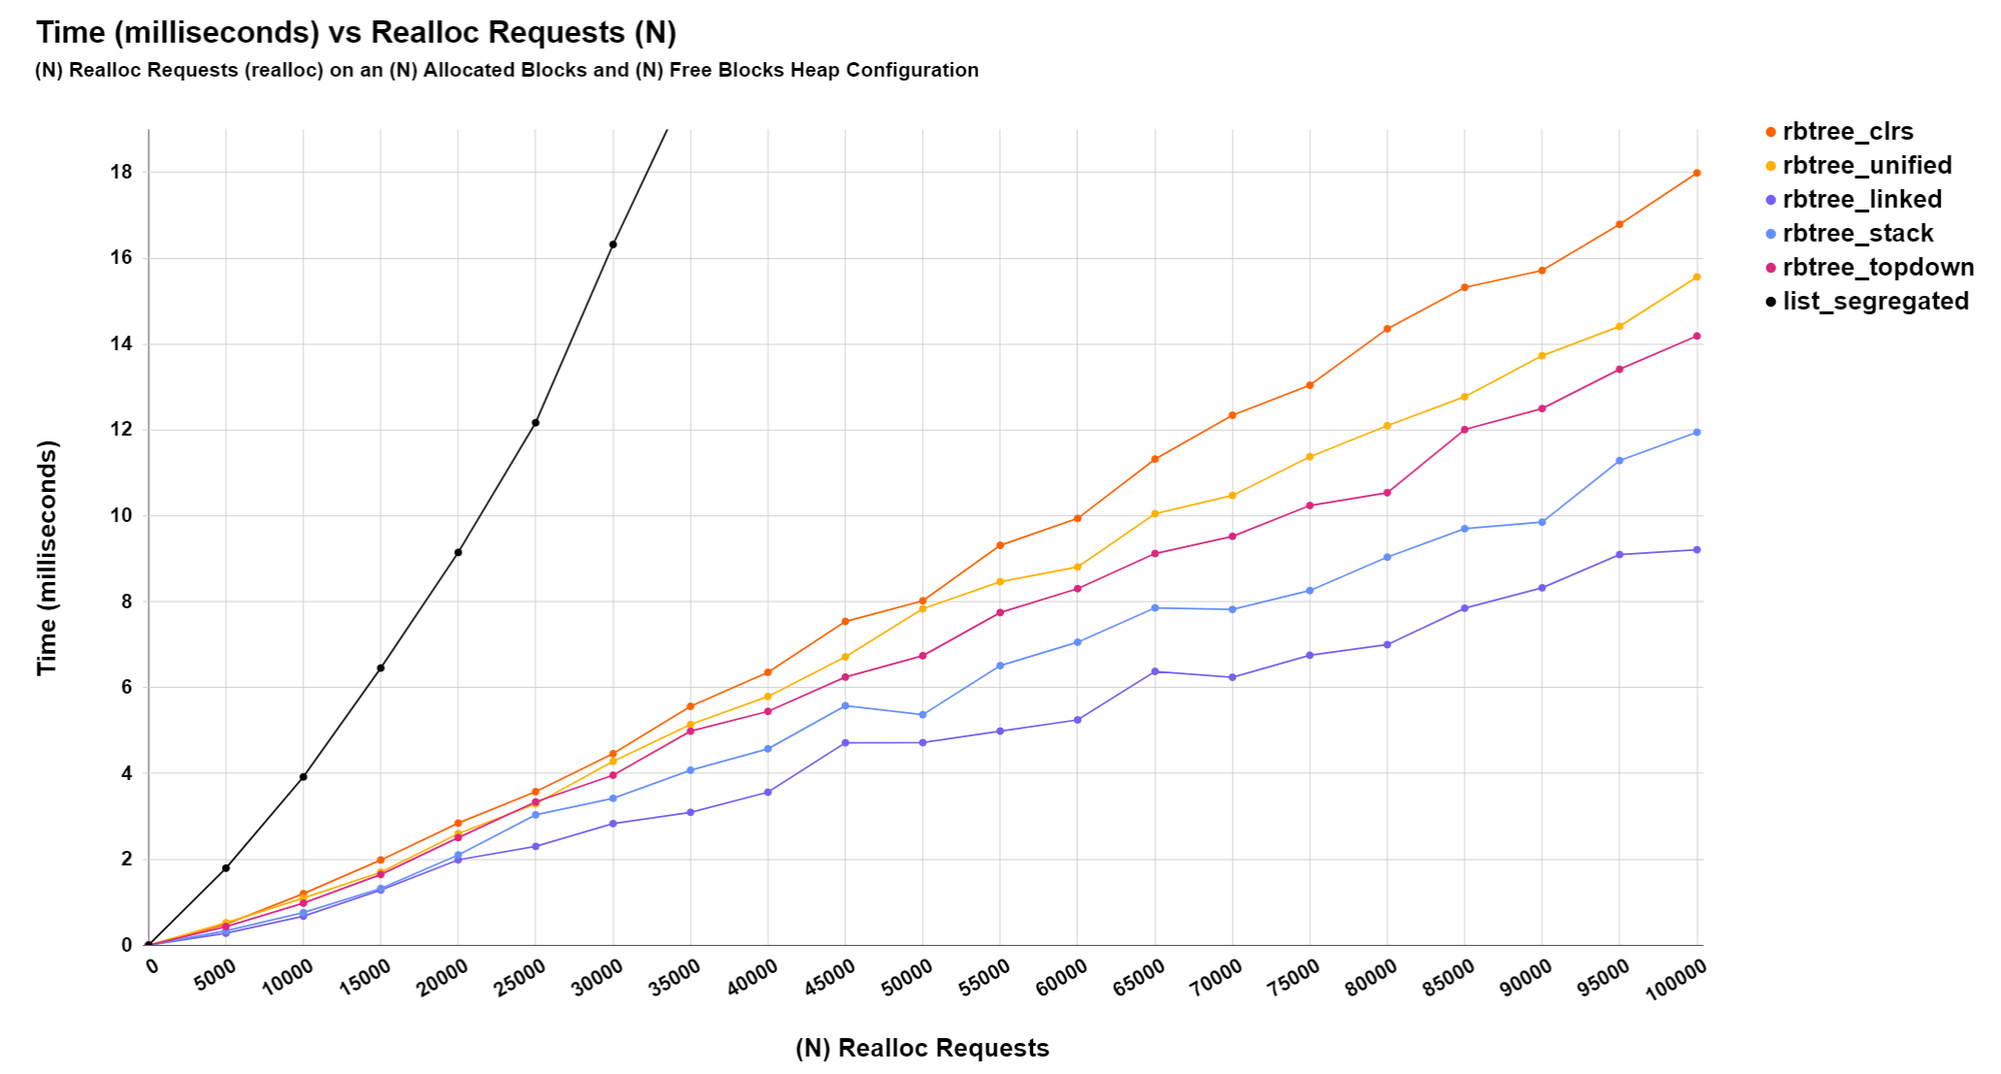
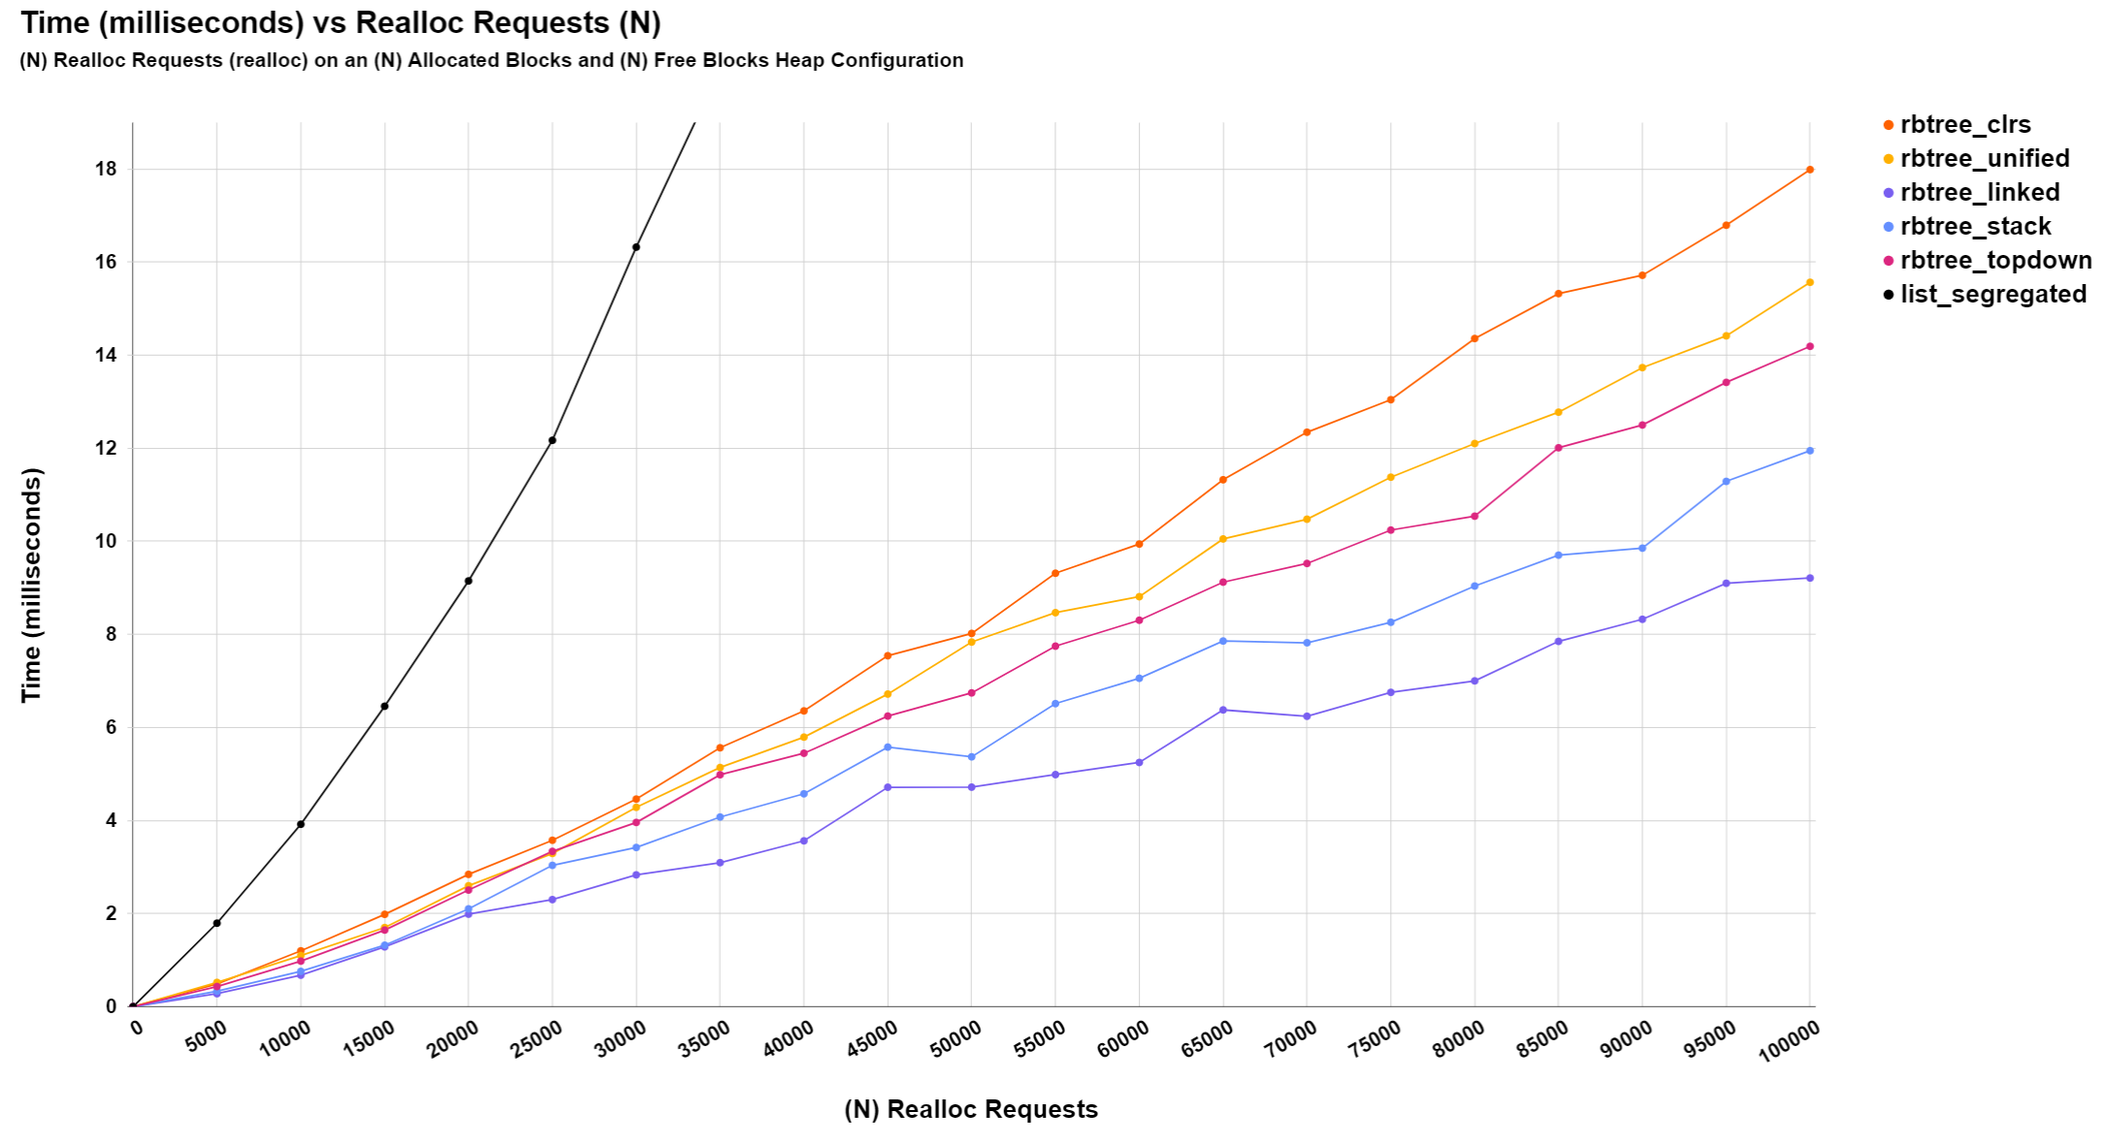
commit

diff --git a/docs/rbtree_analysis.md b/docs/rbtree_analysis.md
@@ -16,9 +16,9 @@
 5. Stack Based
    - Documentation **([`rbtree_stack.md`](/docs/rbtree_stack.md))**
    - Implementation **([`rbtree_stack.c`](/src/rbtree_stack.c))**
-6. Topdown Fixups
-   - Documentation **([`rbtree_topdown.md`](/docs/rbtree_topdown.md))**
-   - Implementation **([`rbtree_topdown.c`](/src/rbtree_topdown.c))**
+6. top-down Fixups
+   - Documentation **([`rbtree_top-down.md`](/docs/rbtree_top-down.md))**
+   - Implementation **([`rbtree_top-down.c`](/src/rbtree_top-down.c))**
 7. Runtime Analysis
    - Documentation **([`rbtree_analysis.md`](/docs/rbtree_analysis.md))**
 8. The Programs
@@ -69,7 +69,19 @@ What's even more impressive is what happens when we step up the number of free n
 
 *Pictured Above: Two graphs. The top represents the number of free nodes over a script's lifetime and the bottom represents the time to complete a single request over the script's lifetime.*
 
-So, for further analysis of our tree implementations, we need to reduce our time scale by a factor of 1,000 and compare implementations in milliseconds. This will reveal interesting differences between the five Red Black Tree allocators. We will no longer include the list allocator in further comparisons as that is not productive.
+### A Better List
+
+So far, it may seem that a list based allocator cannot compete with the Red-Black tree data structure. However, that is not the case. The simple list based allocator mentioned above is not the best representative for the list data structure. Many allocators, including the GNU Allocator to some extent, use something called a segregated fits allocator. This involves keeping an array of size ranges in which to store doubly linked lists of that size. We can get clever and mix storing singly sized lists with larger lists that are perfect base 2 power of 2 sizes. While a seemingly simple idea, it can yeild a major speed boost over the simple list. We can even obtain great utilization in some cases.
+
+For example, here is the time per request for the segregated list allocator over the same range of requests we discussed earlier.
+
+![seg-time-per-request](/images/seg-time-per-request.png)
+
+*Pictured Above: Two graphs. The top represents the number of free nodes over a script's lifetime and the bottom represents the time to complete a single request over the script's lifetime.*
+
+You may notice that this allocator resembles the O(lgN) runtime we like to see in our tree based allocators. However, it is slightly less resistant to growth in our number of free nodes. You will see this lack of resistance to the growth of the free lists as we continue our analysis. We will keep this allocator as a point of comparison in our different sections because it is competitive up to a certain point.
+
+For further analysis of our tree implementations, we will reduce our time scale by a factor of 1,000 and compare implementations in milliseconds. This will reveal interesting differences between the five Red Black Tree allocators and the Segregated Fits allocator that will serve as our baseline for performance. We will no longer include the simple list allocator in further comparisons as that is not productive.
 
 ## Testing Methodology
 
@@ -78,7 +90,7 @@ The following test methods and analysis are not targeted towards any specific ap
 - Is there any cost or benefit to uniting the left and right cases of Red Black trees into one case with the use of an array of pointers?
 - Does the approach of storing duplicate node sizes in a linked list benefit performance by trimming the tree?
 - When we abandon the parent field of the tree node in exchange for the linked list field, do we sacrifice performance?
-- Does a topdown approach to fixing a Red Black Tree reduce the number of O(lgN) operations enough to make a difference in performance?
+- Does a top-down approach to fixing a Red Black Tree reduce the number of O(lgN) operations enough to make a difference in performance?
 
 In order to answer these questions I wrote a `time_harness.c` program based upon the `test_harness.c` program the Stanford course staff wrote for us. The original `test_harness.c` program was focussed on correctness. Along with our own debugging and printing functions, the goal of the test harness was to be as thorough as possible in finding bugs quickly and ensuring our allocators functioned properly. This meant that the programs produced for each allocator were painfully slow. There were numerous O(N) operations built into the provided program and I added many more O(N) checks into my own implementations. For a red-black tree these checks only grow as the necessity to ensure the rules of a Red Black Tree are followed becomes critical.
 
@@ -122,9 +134,10 @@ Here are the key details from the above graph.
 - The time complexity of inserting and deleting N elements into our tree is O(NlgN).
   - We may also see some extra time cost from breaking off extra space from a block that is too large and reinserting it into the tree. However, this is hard to predictably measure and does not seem to have an effect on the Big-O time complexity.
 - We see an improvement exceeding 50% in runtime speed when we manage duplicates with a doubly linked list to trim the tree.
-- The topdown approach to managing a Red-Black tree is not the fastest in terms of inserting and deleting from the tree.
+- The top-down approach to managing a Red-Black tree is not the fastest in terms of inserting and deleting from the tree.
+- These allocators clearly outperform the standard segregated fits's O($N^2$) time complexity. 
 
-Recall from the allocator summaries that we are required to manage duplicates in a Red-Black tree if we decide to abandon the parent field of the traditional node. The two approaches that trade the parent field for the pointer to a linked list of duplicates perform admirably: `rbtree_topdown` and `rbtree_stack`. The topdown approach is still an improvement over a traditional Red-Black tree, but surprisingly, the stack implementation that relies on the logical structure of the CLRS Red-Black tree is the winner in this competition. While I thought the `rbtree_linked` approach that uses a field for the `*parent`, `links[LEFT]`, `links[RIGHT]`, and `*list_start` would be the worst in terms of space efficiency, I thought we would gain some speed overall. We still need to measure coalescing performance, but this makes the `rbtree_linked` implmentation seem the most pointless at this point if the same speed can be acheived with more space efficiency.
+Recall from the allocator summaries that we are required to manage duplicates in a Red-Black tree if we decide to abandon the parent field of the traditional node. The two approaches that trade the parent field for the pointer to a linked list of duplicates perform admirably: `rbtree_top-down` and `rbtree_stack`. The top-down approach is still an improvement over a traditional Red-Black tree, but surprisingly, the stack implementation that relies on the logical structure of the CLRS Red-Black tree is the winner in this competition. While I thought the `rbtree_linked` approach that uses a field for the `*parent`, `links[LEFT]`, `links[RIGHT]`, and `*list_start` would be the worst in terms of space efficiency, I thought we would gain some speed overall. We still need to measure coalescing performance, but this makes the `rbtree_linked` implmentation seem the most pointless at this point if the same speed can be acheived with more space efficiency.
 
 Finally, the performance gap scales as a percentage, meaning we will remain over 50% faster when we manage duplicates to trim the tree even when we are dealing with millions of elements and our times have increased greatly. Managing duplicates in a linked list with only the use of one pointer is a worthwile optimization. Revisit any summary of the last three allocators if you want more details on how this optimization works.
 
@@ -140,7 +153,7 @@ Coalescing left and right in all implementations occurs whenever we `free()` or 
 
 In order to test the speed of coalescing across implementations we can set up a similar heap to the one we used for our insertion and deletion test. If we want to test the speed of N coalescing operations, we will create 2N allocations. Then, we will free N blocks of memory to insert into the tree such that every other allocation is freed to prevent premature coalescing. Finally, we will call `realloc()` on every allocation that we have remaining, N blocks. My implementation of `realloc()` and `free()` coalesce left and right every time, whether the reallocation request is for more or less space. I have set up a random distribution of calls for more or less space, with a slight skew towards asking for more space. This means we are garunteed to left and right coalesce for every call to `realloc()` giving us the maximum possible number of encounters with nodes that are in the tree. We will find a number of different coalescing scenarios this way as mentioned in the allocator summaries.
 
-If we are using a normal Red Black Tree with a parent field, we treat all coalescing the same. We free our node from the tree and then use the parent field to perform the necessary fixups. At worst this will cost O(lgN) operations to fix the colors of the tree. For the `rbtree_linked` implementation, where we kept the parent field and added the linked list as well, any scenario in which we coalesce a duplicate node will result in an O(1) operation. No rotations, fixups, or searches are necessary. This is great! For the `rbtree_stack` and `rbtree_topdown` implementations, we were able to acheive the same time complexity by thinking creatively about how we view nodes and how they store the parent field if they are a duplicate. Both of those allocators represent advanced optimizations in speed and space efficiency. The only disadvantage to the `rbtree_stack` allocator, when compared to the `rbtree_linked` allocator, is that if we coalesce a unique node we must launch into a tree search to build its path in a stack in preparation for fixups. The `rbtree_linked` implementation is able to immediately start fixups because it still has the parent field, even in a unique node.
+If we are using a normal Red Black Tree with a parent field, we treat all coalescing the same. We free our node from the tree and then use the parent field to perform the necessary fixups. At worst this will cost O(lgN) operations to fix the colors of the tree. For the `rbtree_linked` implementation, where we kept the parent field and added the linked list as well, any scenario in which we coalesce a duplicate node will result in an O(1) operation. No rotations, fixups, or searches are necessary. This is great! For the `rbtree_stack` and `rbtree_top-down` implementations, we were able to acheive the same time complexity by thinking creatively about how we view nodes and how they store the parent field if they are a duplicate. Both of those allocators represent advanced optimizations in speed and space efficiency. The only disadvantage to the `rbtree_stack` allocator, when compared to the `rbtree_linked` allocator, is that if we coalesce a unique node we must launch into a tree search to build its path in a stack in preparation for fixups. The `rbtree_linked` implementation is able to immediately start fixups because it still has the parent field, even in a unique node.
 
 ![chart-realloc-free](/images/chart-realloc-free.png)
 
@@ -148,9 +161,10 @@ Here are the key details from the above graph.
 
 - The runtime of N reallocations is O(NlgN).
 - The `rbtree_linked` implementation with nodes that have a `*parent`, `links[LEFT-RIGHT]`, and `*list_start` field is the clear winner. The number of O(1) encounters with duplicates reduces the overall runtime of the allocator significantly.
-- The stack approach is again a solid balance of space-efficiency and speed. However, it seems that accessing an array to get the nodes you need is a factor slowing this implementation down compared to `rbtree_linked`. The search to build the stack when we coalesce a unique node also shows up as a time cost without the `parent` field. There is also added complexity in how `rbtree_stack` and `rbtree_topdown` store the parent field, increasing instruction counts.
-- The topdown approach must fix the tree while it goes down to remove a node, thus costing time due to extra work.
+- The stack approach is again a solid balance of space-efficiency and speed. However, it seems that accessing an array to get the nodes you need is a factor slowing this implementation down compared to `rbtree_linked`. The search to build the stack when we coalesce a unique node also shows up as a time cost without the `parent` field. There is also added complexity in how `rbtree_stack` and `rbtree_top-down` store the parent field, increasing instruction counts.
+- The top-down approach must fix the tree while it goes down to remove a node, thus costing time due to extra work.
 - The `rbtree_unified` implementation only differs from the `rbtree_clrs` implementation in that unifies the left and right cases of a Red Black tree using an array in one of the node fields. Yet, it is faster in this application.
+- The `list_segregated` allocator is more competitive in this category, but is soon outclassed by the speed of the Red-Black tree allocators.
 
 These results make the most wasteful implementation in terms of space, `rbtree_linked`, more of a proof of concept. If the similar results can be acheived with more space efficiency, the implementation loses value.
 
@@ -180,7 +194,7 @@ The Linux `tree` command will print out all directory contents in a tree structu
 
 ![chart-tracetree](/images/chart-tracetree.png)
 
-It is again unproductive to discuss a speed comparison between the Red Black Tree allocators on this scale, so we will drop the list allocator for further comparison.
+It is again unproductive to discuss a speed comparison between the Red Black Tree allocators on this scale, so we will drop the list allocator for further comparison. We will also note that the Segregated Fits allocator was much more competitive across these categories in terms of speed. However, it is not quite fast enough to stay for further analysis amongst the different Red-Black tree allocators.
 
 ![chart-rbtracetree](/images/chart-rbtracetree.png)
 
@@ -203,28 +217,29 @@ Here are the key observations from the above graph.
 
 ### Utilization
 
-While it was not productive to compare speeds of the list allocator to the tree allocator, the list allocator can show value in its high utilization due to low overhead to maintain the list. Let's compare utilization across the insertion/deletion, coalescing, and tracing applications.
+While it was not productive to compare speeds of the list allocators to the tree allocators, the list allocators can show value in their high utilization due to low overhead to maintain the list. Let's compare utilization across the insertion/deletion, coalescing, and tracing applications.
 
 ![chart-utilization](/images/chart-utilization.png)
 
 Here are the key details from the above graph.
 
 - While slow, the doubly linked list allocator has excellent utilization.
-- The implementations of the `rbtree_clrs`, `rbtree_unified`, `rbtree_stack`, and `rbtree_topdown` are different in terms of the details of their code and algorithms. However, they have the exact same space used in their nodes, therefore the utilization is identical.
+- The implementations of the `rbtree_clrs`, `rbtree_unified`, `rbtree_stack`, and `rbtree_top-down` are different in terms of the details of their code and algorithms. However, they have the exact same space used in their nodes, therefore the utilization is identical.
 - Perhaps this view makes the cost of the speed gained by the `rbtree_linked` approach more apparent.
+- The more advanced Segregated Fits allocator can achieve an excellent balance of speed and utilization. However, its utilization is highly dependent on the workload (notice the severe dip to 76% illustrated by the blue line). This is due to the high overhead of the lookup table. If the number of free nodes remains low, this lookup table for the segregated lists will eat into overall utilization. But once heap usage grows the low overhead of the actual free nodes compared to the Red-Black tree nodes begins to shine.
 
 ## Conclusions
 
 Let's revisit the questions I was most interested in when starting the runtime analysis of these allocators.
 
 - Is there any cost or benefit to uniting the left and right cases of Red Black trees into one case with the use of an array of pointers?
-  - **Our initial runtime informations suggests that accessing pointers to other nodes in the tree from an array is slightly slower. We can explore the assembly of the traditional node versus the array based node to see for sure where the instruction counts expand. This is a possible extension to pursue in this project.**
+  - **Our initial runtime information suggests that accessing pointers to other nodes in the tree from an array is slightly slower. We can explore the assembly of the traditional node versus the array based node to see for sure where the instruction counts expand. This is a possible extension to pursue in this project.**
 - Does the approach of storing duplicate node sizes in a linked list benefit performance by trimming the tree?
   - **Absolutely. In fact, if you wish to make no compromises in terms of performance then simply add the linked list pointer to the traditional node. However, if you want a more space efficient approach use an explicit stack to track lineage of the tree, and store duplicates in a linked list pointer.**
 - When we abandon the parent field of the tree node in exchange for the linked list field, do we sacrifice performance?
-  - **If we use the CLRS algorithm to fix the tree with a bottom up approach, we do not lose much speed. However when we fix the tree with a topdown approach, we will lose some time even though we have eliminated the need for a parent field. This seems to be because we do extra work whenever we fix the tree on the way down, and our bottom up approach may not perform the worst case number of fixups on every execution.**
-- Does a topdown approach to fixing a Red Black Tree reduce the number of O(lgN) operations enough to make a difference in performance?
-  - **Yes. The difference is that the topdown algorithm is slower than the bottom up algorithm. Perhaps the added logic of handling duplicates and needing to rewire pointers slows down this implementation of an allocator initially intended for no duplicates and transplanting removed nodes by copying data from the replacement node to the one being removed. We may also perform more fixups while going down the tree that involve expensive operations such as rotations than we would in a bottom up approach. In these real world tests, the bottom up algorithm must not perform the worst case number of fixups as frequently as the topdown algorithm.**
+  - **If we use the CLRS algorithm to fix the tree with a bottom up approach, we do not lose much speed. However when we fix the tree with a top-down approach, we will lose some time even though we have eliminated the need for a parent field. This seems to be because we do extra work whenever we fix the tree on the way down, and our bottom up approach may not perform the worst case number of fixups on every execution.**
+- Does a top-down approach to fixing a Red Black Tree reduce the number of O(lgN) operations enough to make a difference in performance?
+  - **Yes. The difference is that the top-down algorithm is slower than the bottom up algorithm. Perhaps the added logic of handling duplicates and needing to rewire pointers slows down this implementation of an allocator initially intended for no duplicates and transplanting removed nodes by copying data from the replacement node to the one being removed. We may also perform more fixups while going down the tree that involve expensive operations such as rotations than we would in a bottom up approach. In these real world tests, the bottom up algorithm must not perform the worst case number of fixups as frequently as the top-down algorithm.**
 
 For further exploration, I would be interested in finding real world programs with more diverse heap calls, such as `realloc()`. The current real world tests were mostly calls to `malloc()` and `free()`, keeping our tree small.
 
